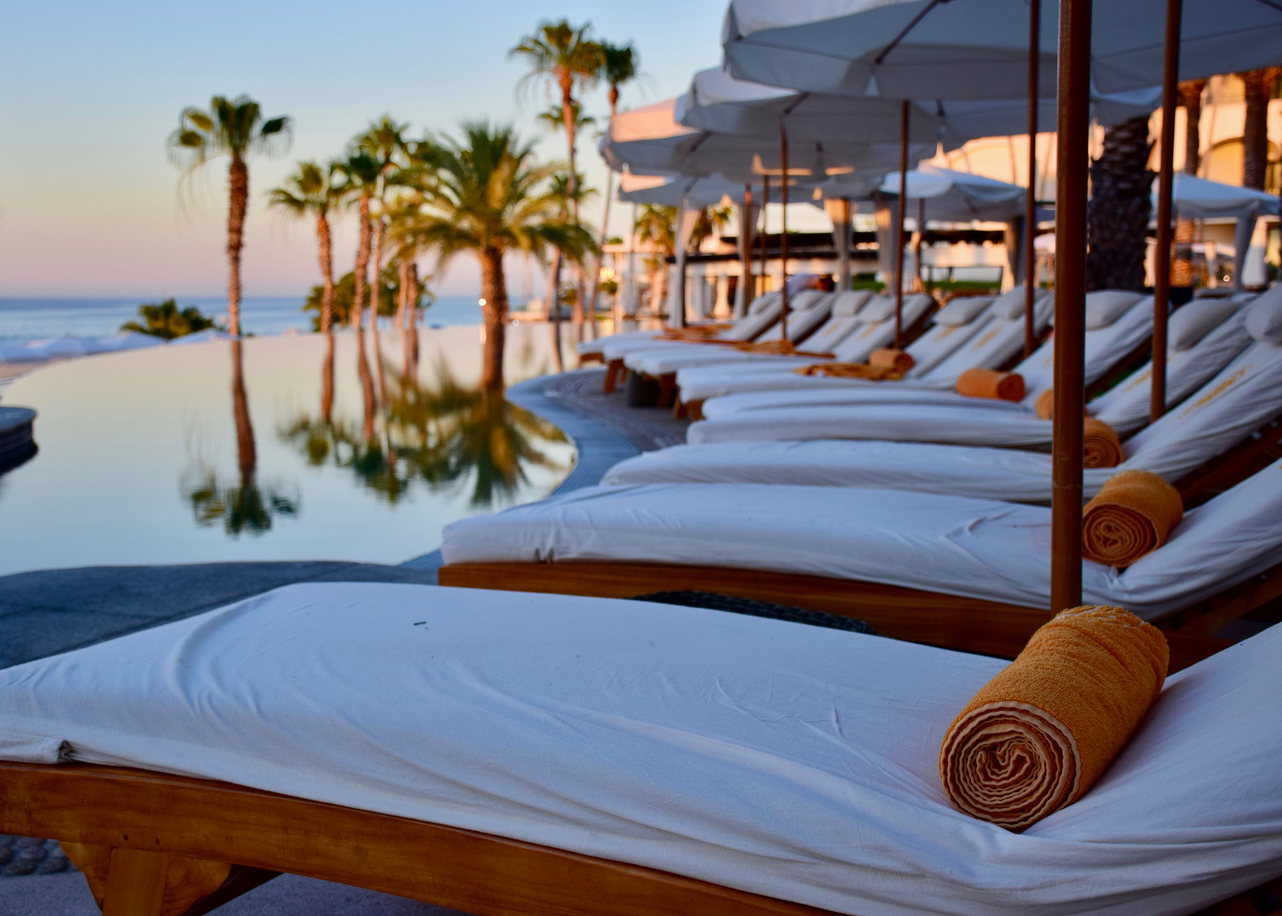
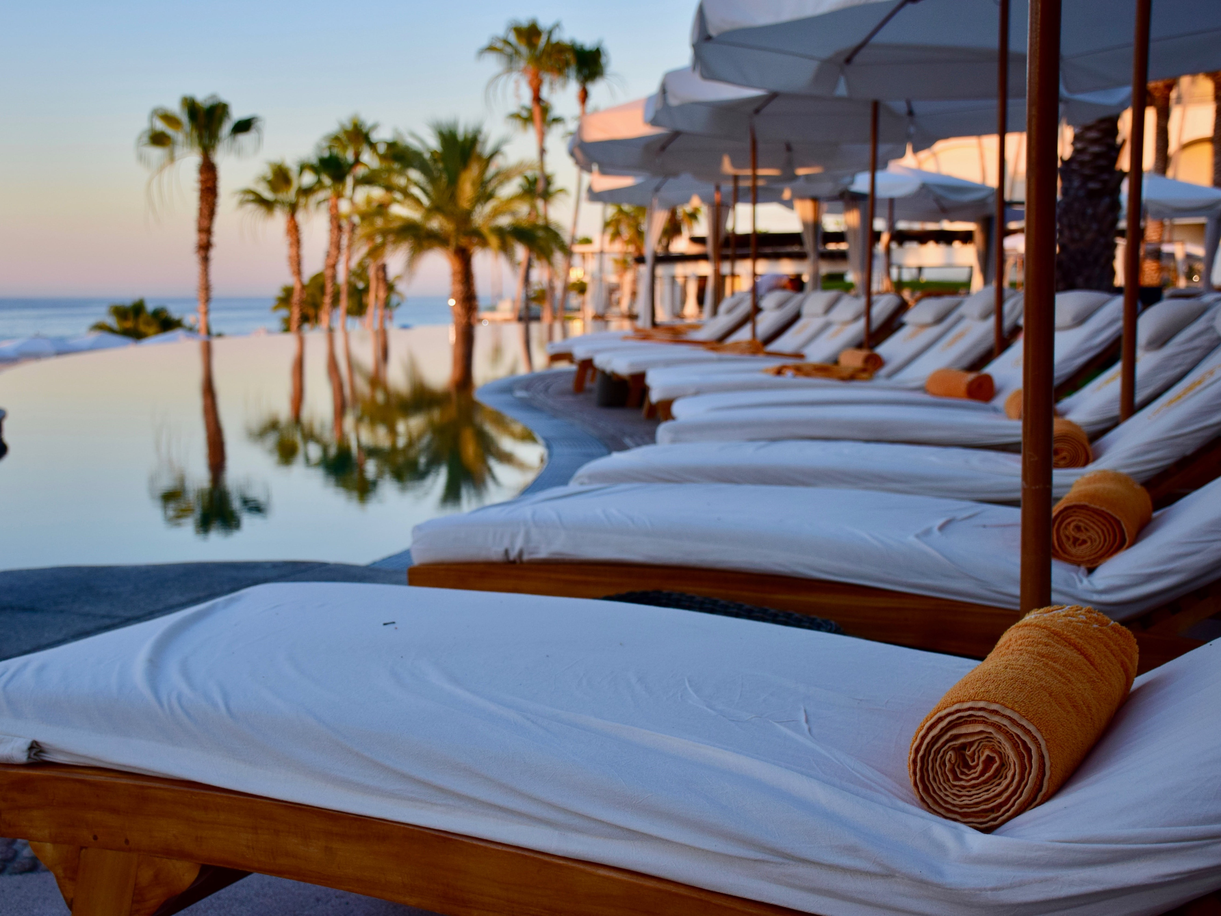
Updated Home screen photo, adjusted photo ratios

diff --git a/README.md b/README.md
@@ -1,0 +1,6 @@
+# Shanna Graves
+## Bootstrap B&B Assignment
+
+A website for a bed and breakfast that includes a home page and a contact us page.
+
+![Screenshot of Home Page](<Screenshot (13).png>)
